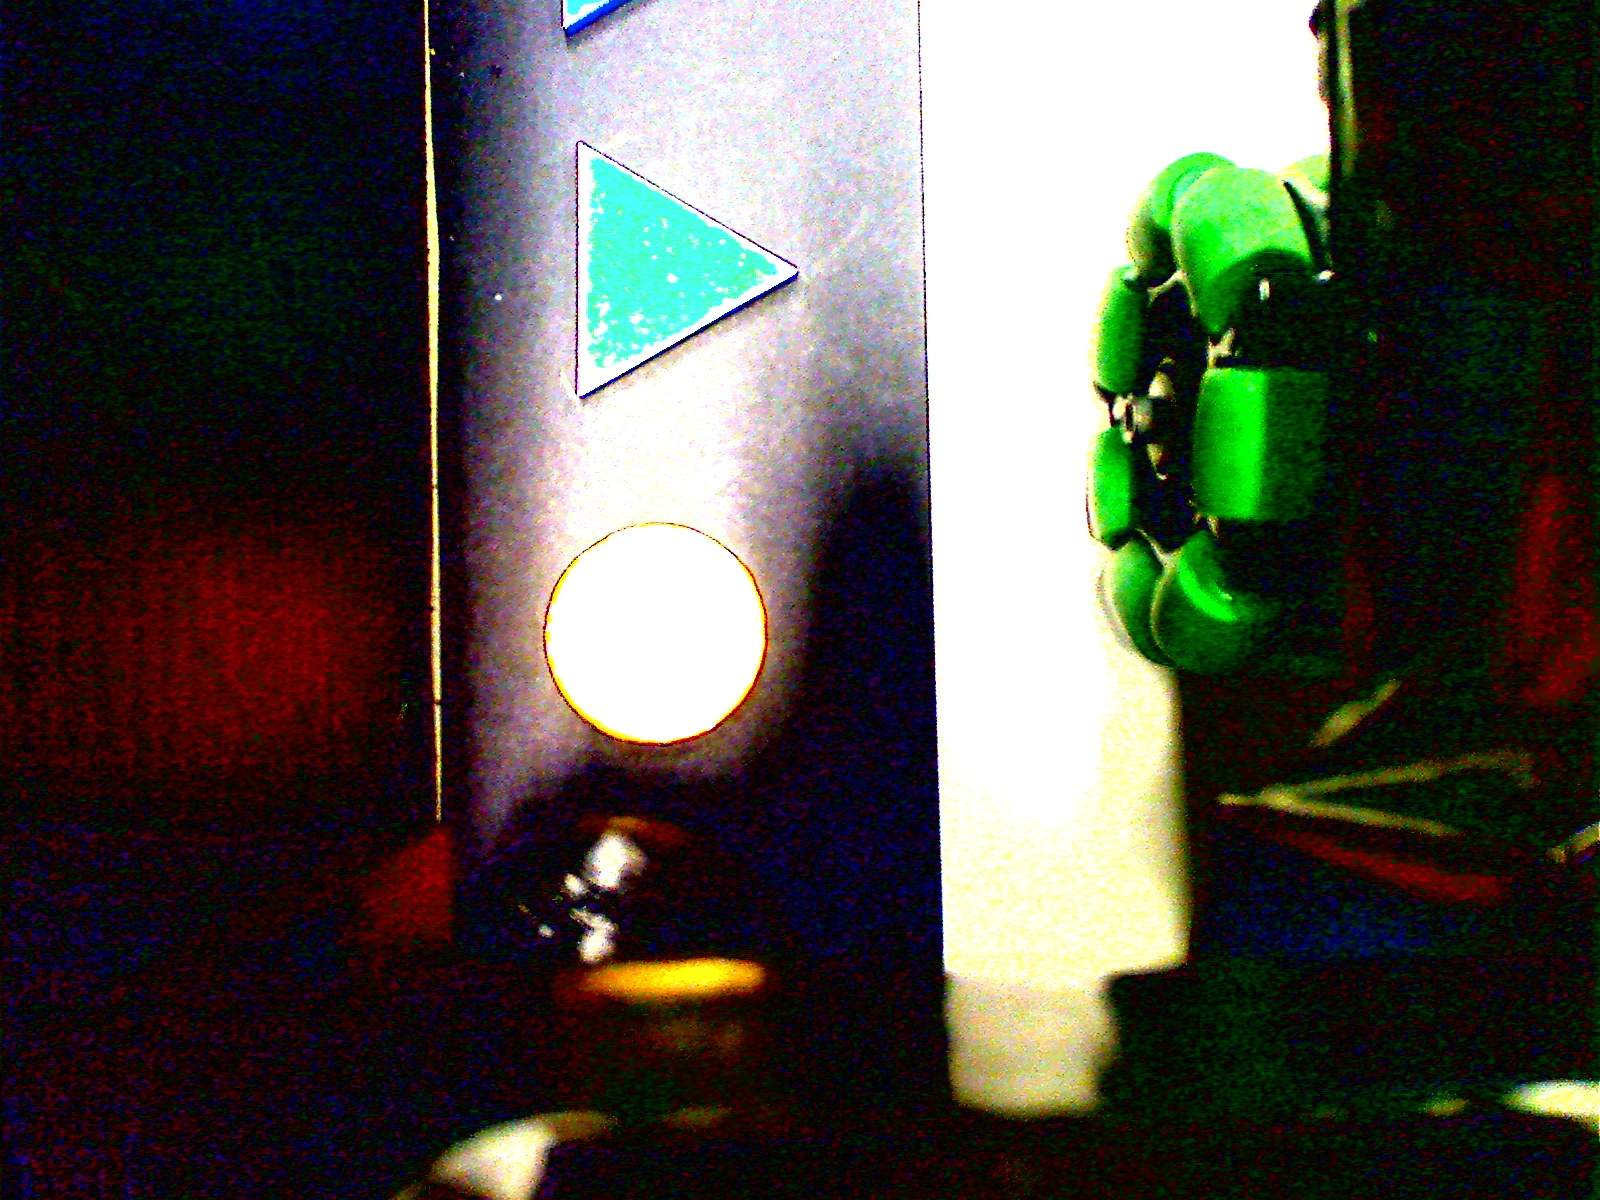
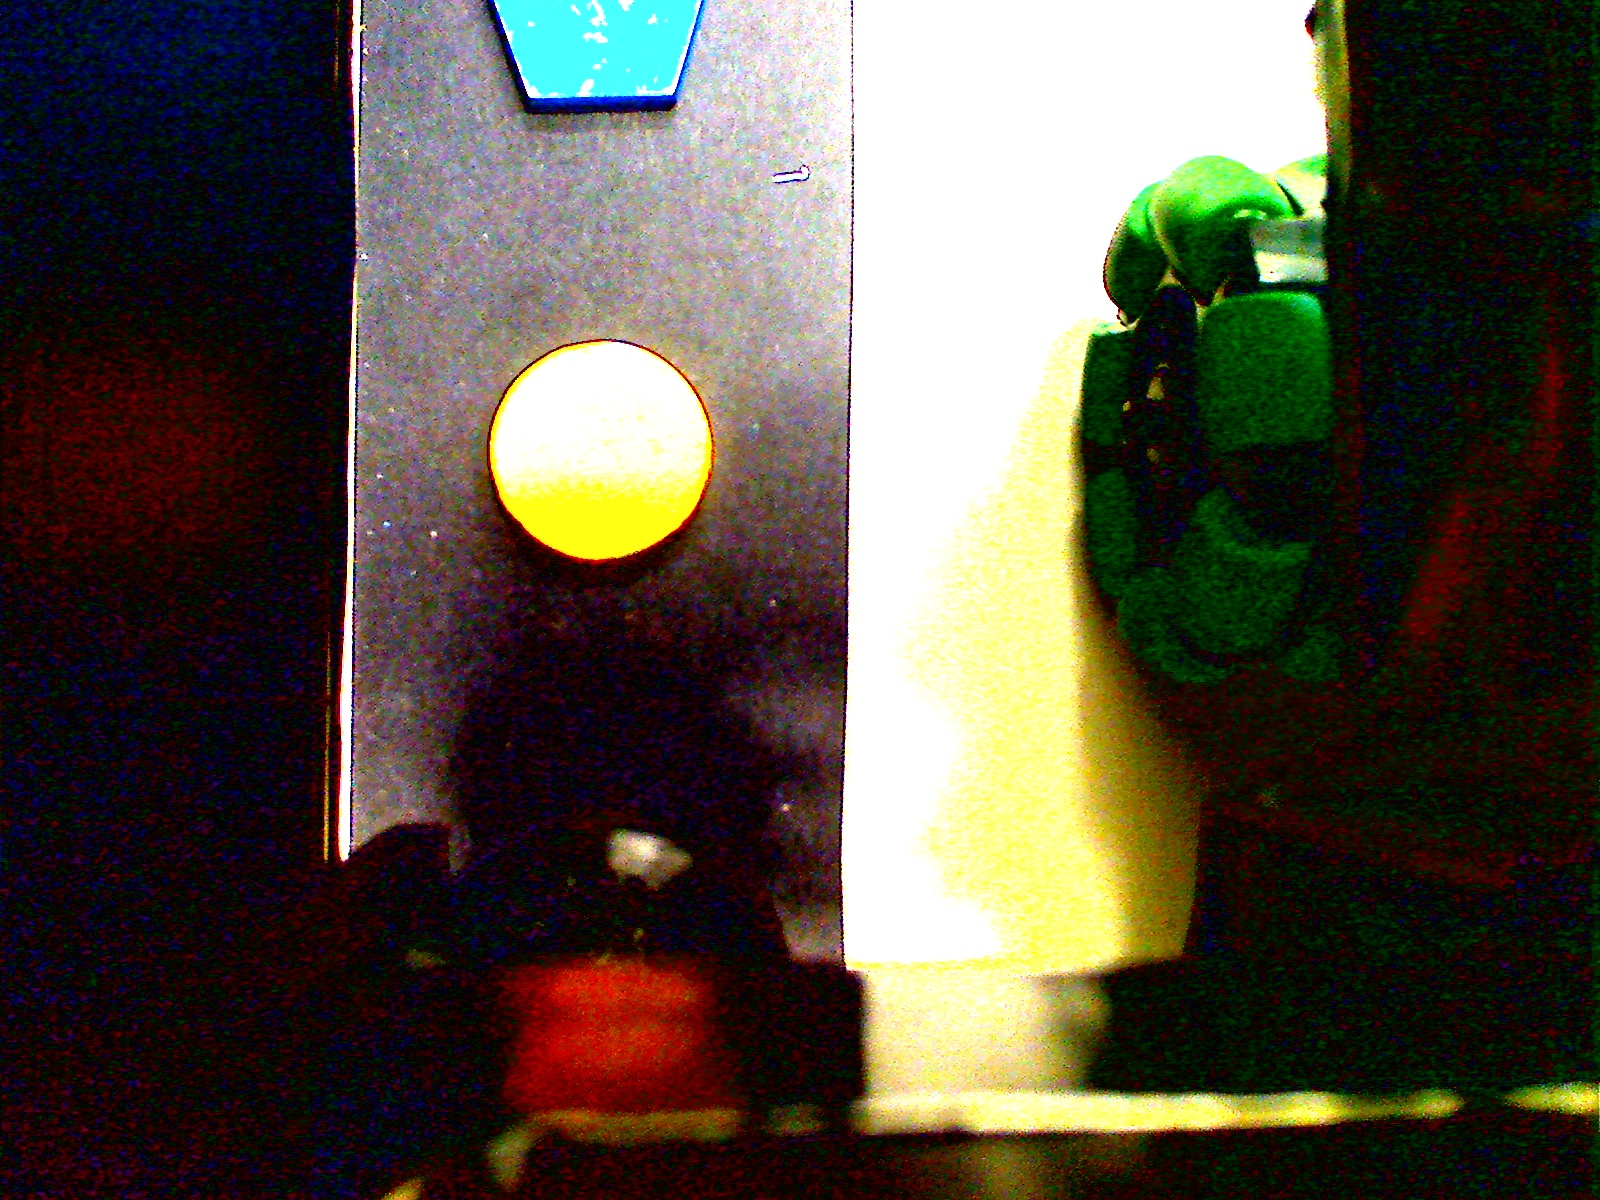
ld test that shit

diff --git a/main.py b/main.py
@@ -86,15 +86,15 @@ def main_sequence(ui=True):
     logger.log_info('Sequence start...')
     sequence.go_to_start_zone()
     sequence.go_to_charge_robot()
-    sequence.go_to_decode_qr()
+    # sequence.go_to_decode_qr()
     # sequence.zone_dep_cardinal = 'EAST'
-    # sequence.piece_color = None
-    sequence.piece_shape = TRIANGLE
-    # sequence.depot_number = ZONE_3
+    sequence.piece_color = JAUNE
+    # sequence.piece_shape = TRIANGLE
+    sequence.depot_number = ZONE_3
     sequence.go_to_zone_pickup()
     sequence.move_robot_around_pickup_zone(validation=False)
-    sequence.go_to_zone_dep()
-    sequence.move_robot_around_zone_dep()
+    # sequence.go_to_zone_dep()
+    # sequence.move_robot_around_zone_dep()
     sequence.go_to_start_zone()
     sequence.end_sequence()
     sequence.end()

diff --git a/test/domain/image_analysis/opencv_callable/DetectPickupZoneTest.py b/test/domain/image_analysis/opencv_callable/DetectPickupZoneTest.py
@@ -6,7 +6,7 @@ import cv2
 import os
 import inspect
 
-LIVE = False
+LIVE = True
 SHOW = True
 
 
@@ -24,7 +24,7 @@ class DetectPickupZoneTest(unittest.TestCase):
         # "./image_samples/real_image/globalmonde1.jpg")
 
         if (LIVE):
-            cap = cv2.VideoCapture(1)
+            cap = cv2.VideoCapture(0)
             ret, frame = cap.read()
             res = detect_pickup_zone(frame)
 

diff --git a/sequence/Sequence.py b/sequence/Sequence.py
@@ -108,7 +108,7 @@ class Sequence:
 
     def start(self, scan_for_qr=False, unsecure=False):
         logger.log_info("## Starting path finding")
-        create_done = self.__create_smooth_path()
+        create_done = self.__create_smooth_path(unsecure)
 
         if (create_done is None):
             return

diff --git a/context/config.py b/context/config.py
@@ -3,5 +3,5 @@ SHAPE_UTILS_DEBUG = False
 SHAPE_DETECTOR_DEBUG = False
 DETECT_ZONE_DEP_WORLD_DEBUG = False
 DETECT_START_ZONE_DEBUG = False
-DETECT_PICKUP_ZONE_DEBUG = False
+DETECT_PICKUP_ZONE_DEBUG = True
 DETECT_POINT_ZONE_DEP_DEBUG = False

diff --git a/util/test_mac_cam.py b/util/test_mac_cam.py
@@ -21,4 +21,5 @@ while True:
 
 img = cv2.resize(img, (640, 480))
 cv2.imshow("test", img)
+cv2.imwrite("ld.jpg", img)
 cv2.waitKey(0)
